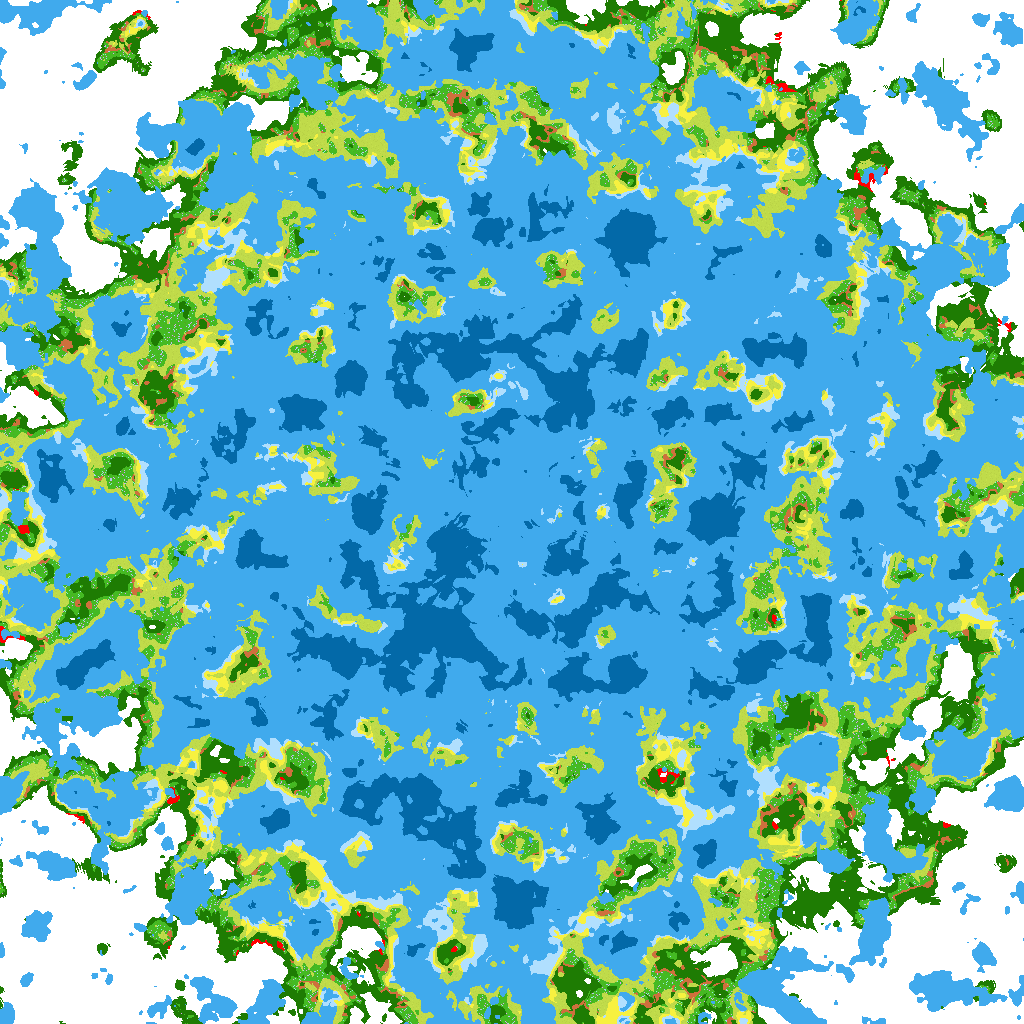
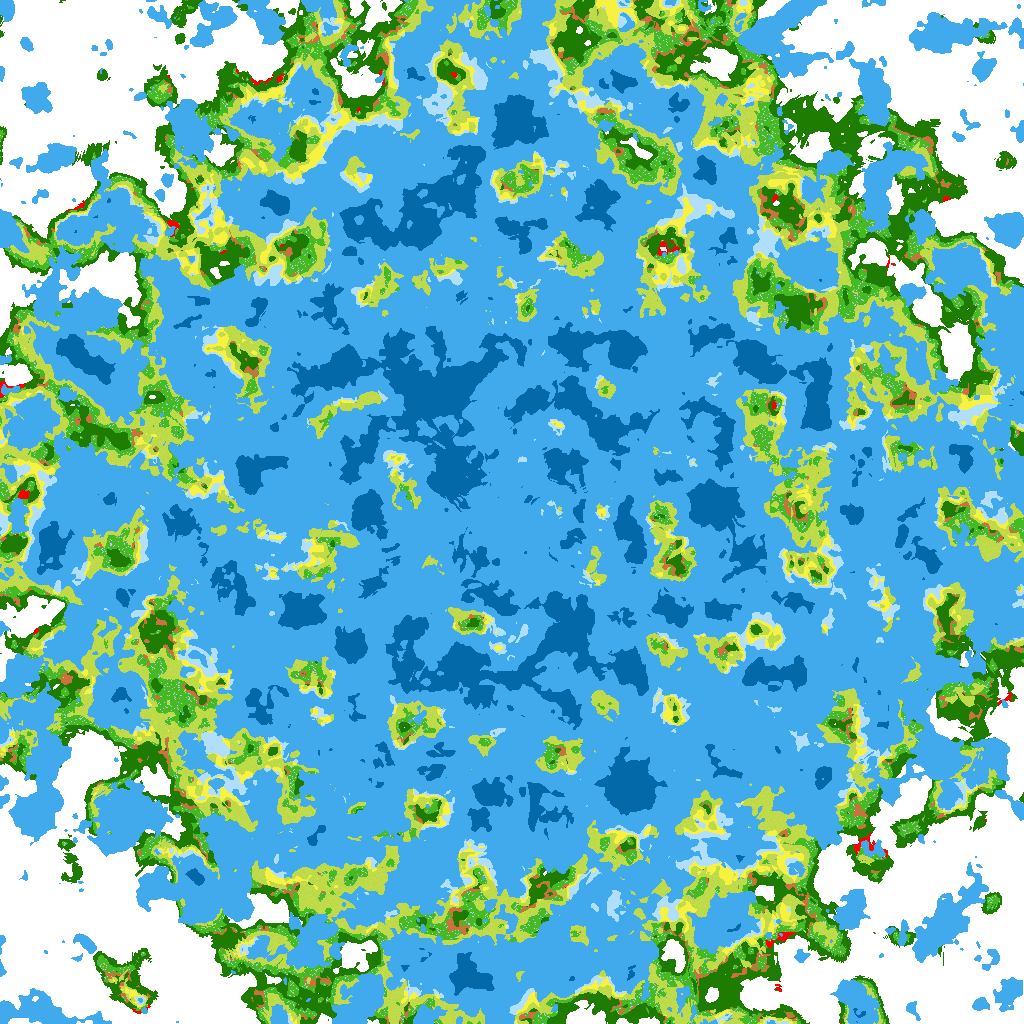
World map images are now drawn correctly.

diff --git a/src/gaia/world/generation/WorldMapImageCreator.java b/src/gaia/world/generation/WorldMapImageCreator.java
@@ -139,6 +139,6 @@ public class WorldMapImageCreator {
 		// Create the colour.
 		int colour = (r << 16) | (g << 8) | b;
 		// Set the pixel colour at the x/y position.
-		image.setRGB(x + centreToEdge, z + centreToEdge, colour);
+		image.setRGB(x + centreToEdge, (Constants.WORLD_SIZE - 1) - (z + centreToEdge), colour);
 	}
 }
